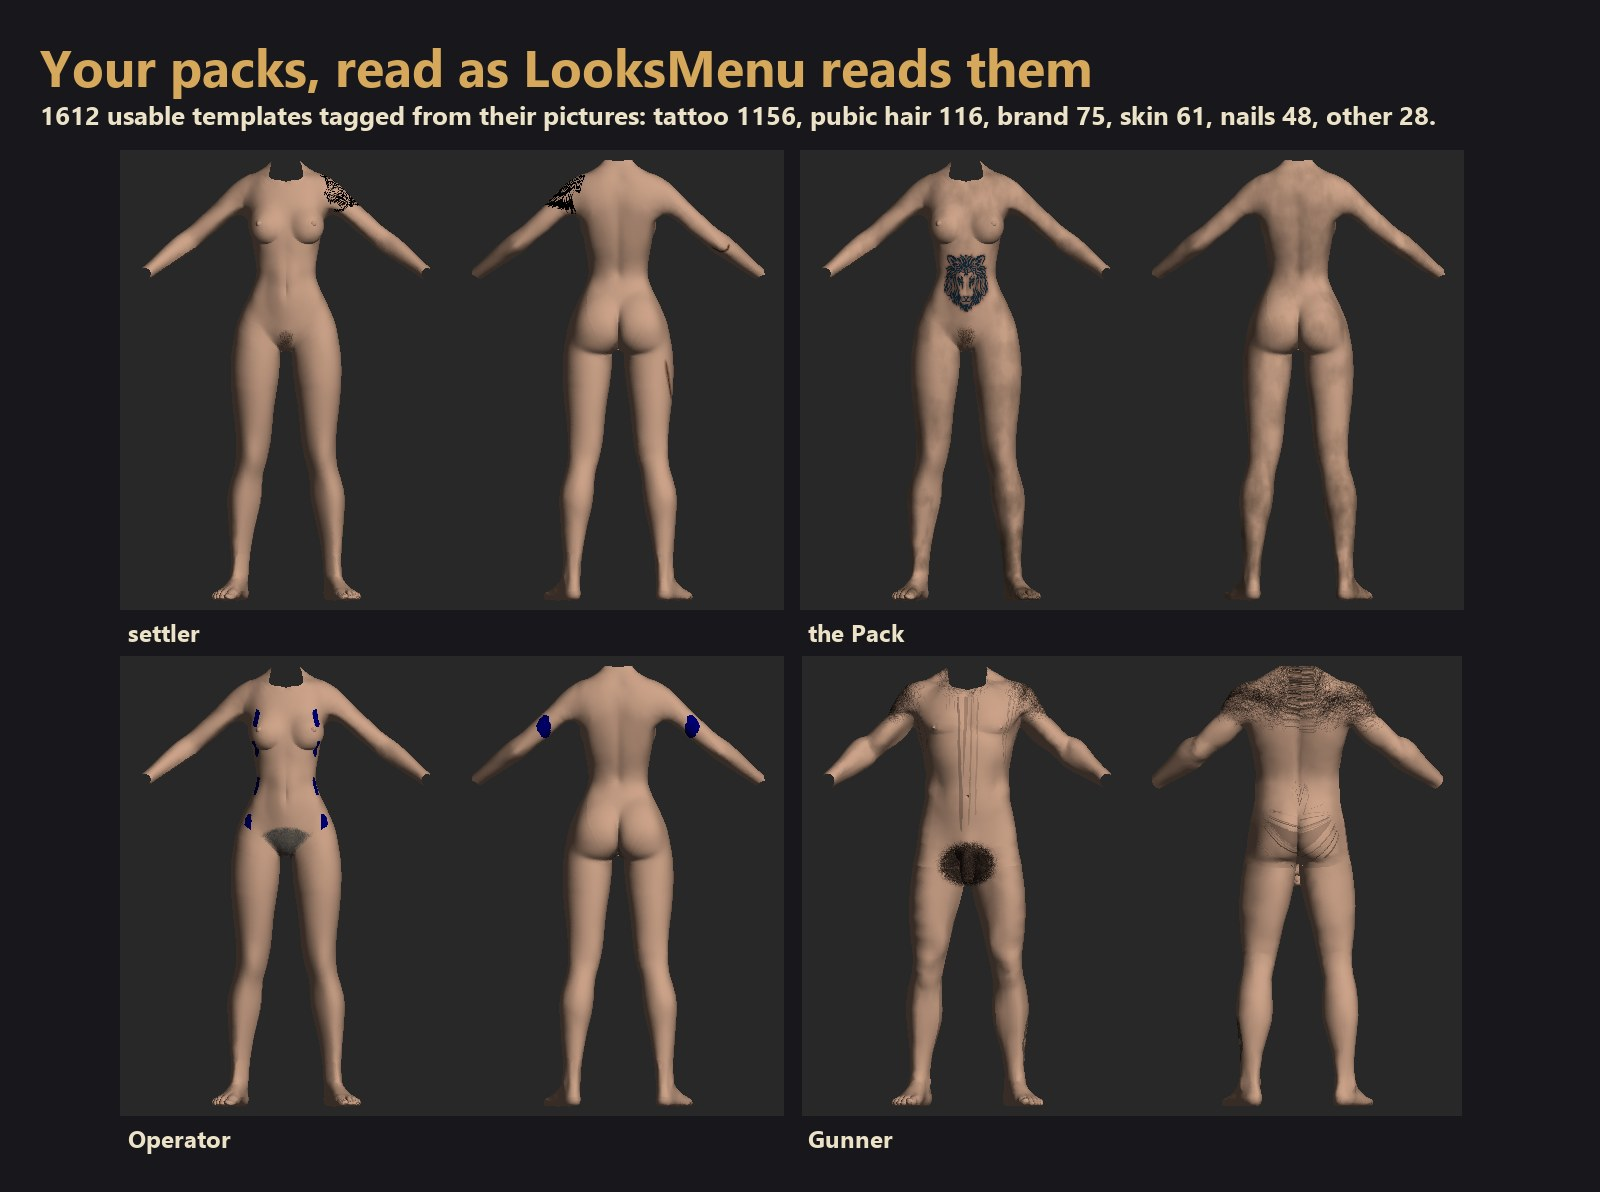
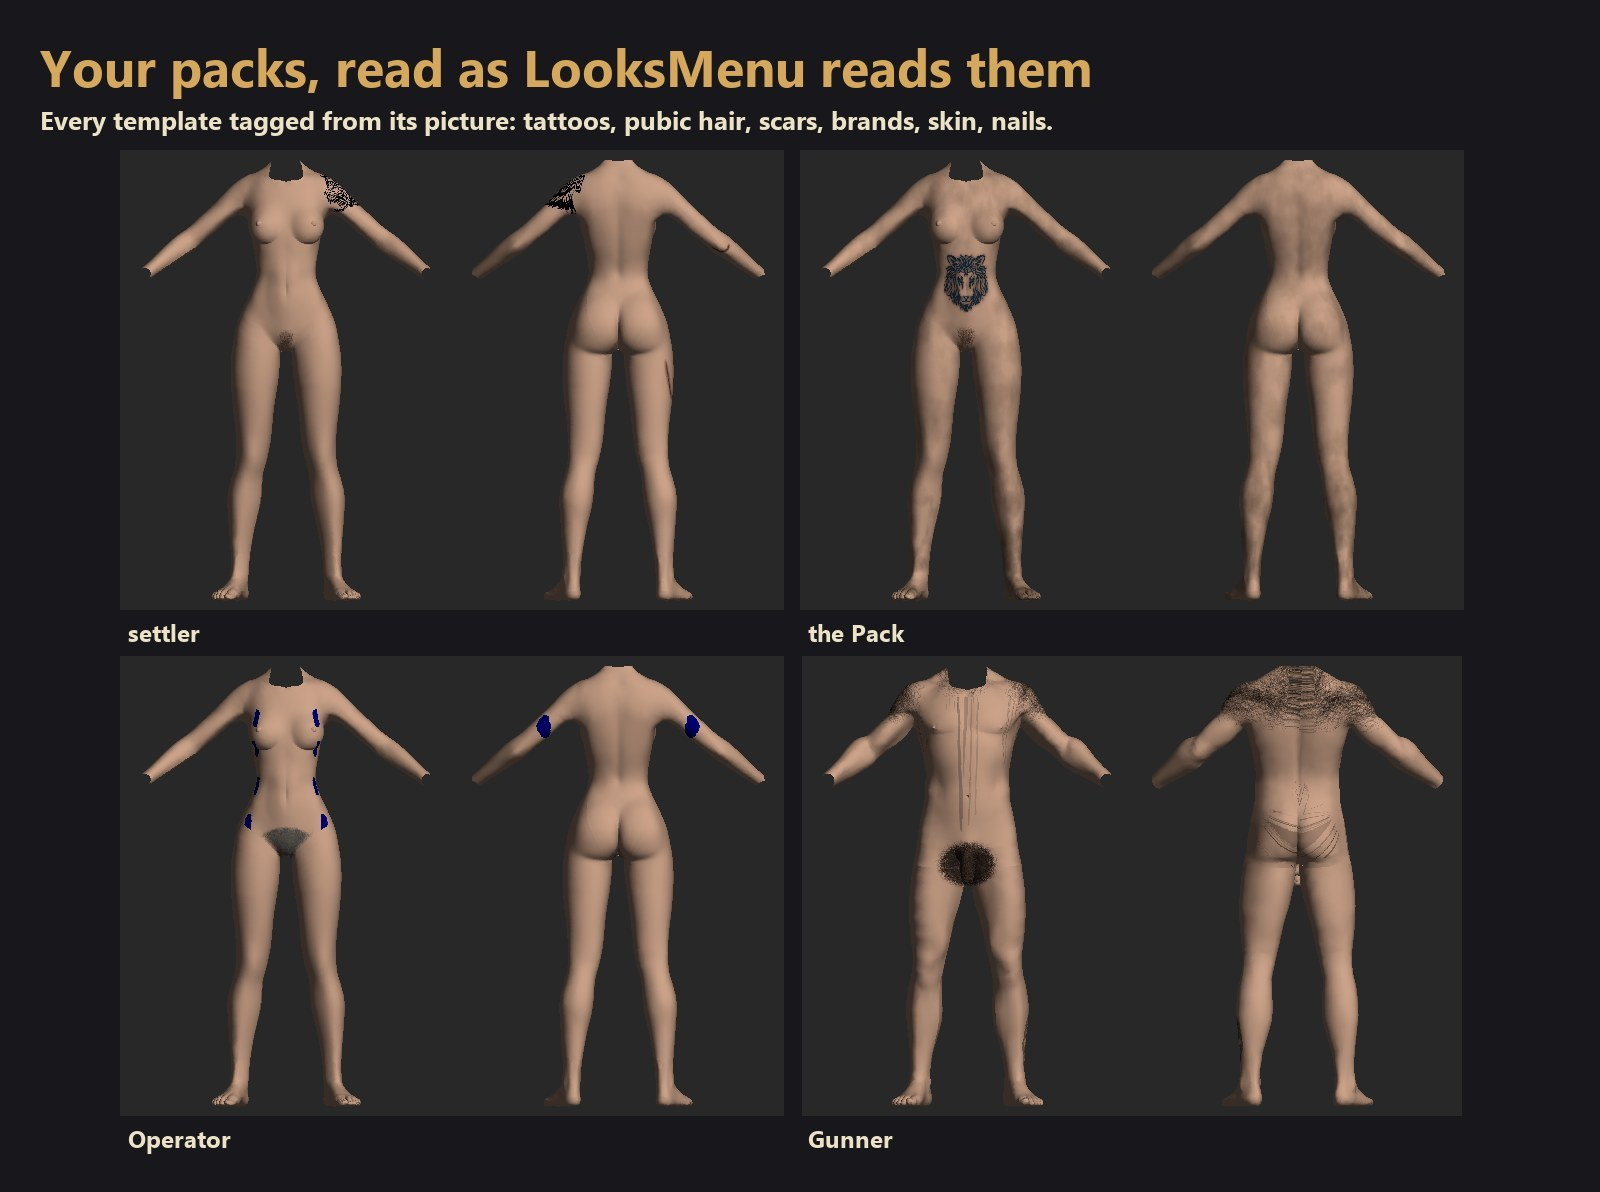
Packs card without counts: subtitle rewritten on the original renders
The re-render came out bare (the LoversLab packs it showed are disabled
on this machine now), so the original image keeps its renders and only
its stale "N usable templates" line is replaced. cards.py drops the
counts for the next render too (the owner's rule: no numbers in images).

Committed with --no-verify (bearing pre-commit hang).

Claude-Session: https://claude.ai/code/session_01Ps2a7HcBLekRGiX5fDB6ok

Changed region(s): [[0.0312, 0.0931, 0.9062, 0.1242]]

diff --git a/tools/paint/cards.py b/tools/paint/cards.py
@@ -209,8 +209,9 @@ def main():
                                  ('gunners', False, 'Gunner')):
         seed = best_seed(looks, group, female, 3)
         tiles.append((label, pair(looks, group, female, seed, 460)))
-    top = ', '.join(f'{k.replace("_", " ")} {n}' for k, n in sorted(kinds.items(), key=lambda x: -x[1])[:6])
-    card('Your packs, read as LooksMenu reads them', f'{len(looks.catalog)} usable templates tagged from their pictures: {top}.',
+    # Kinds, no counts: numbers in a picture go stale with every release (the owner's rule, 10-04).
+    top = ', '.join(k.replace('_', ' ') for k, n in sorted(kinds.items(), key=lambda x: -x[1])[:6])
+    card('Your packs, read as LooksMenu reads them', f'Every template tagged from its picture: {top}.',
          tiles, out / 'packs.jpg', cols=2)
 
     # cheap: the measured comparison, as a text card
